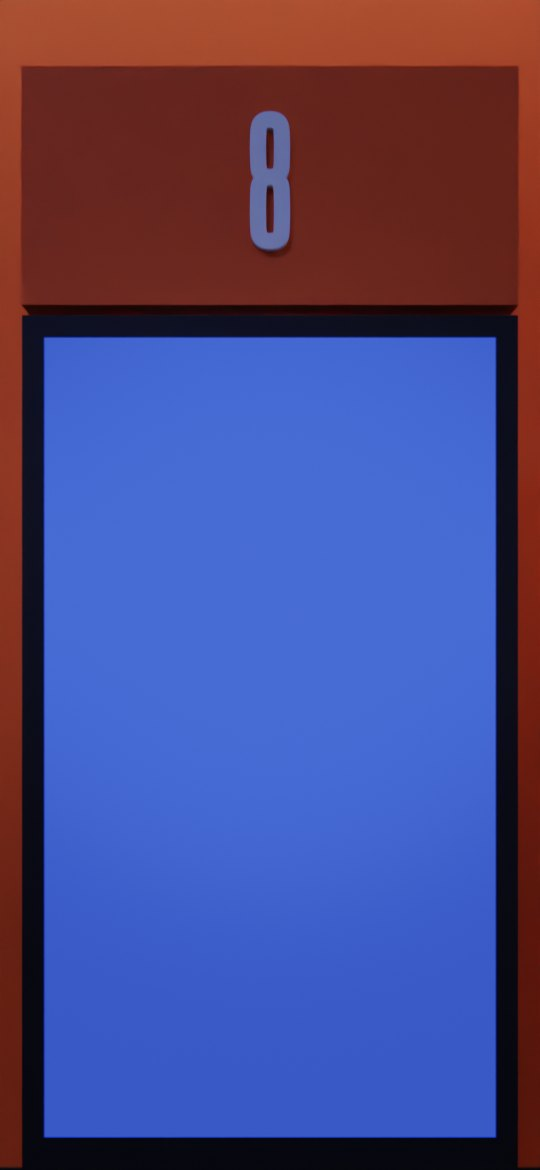
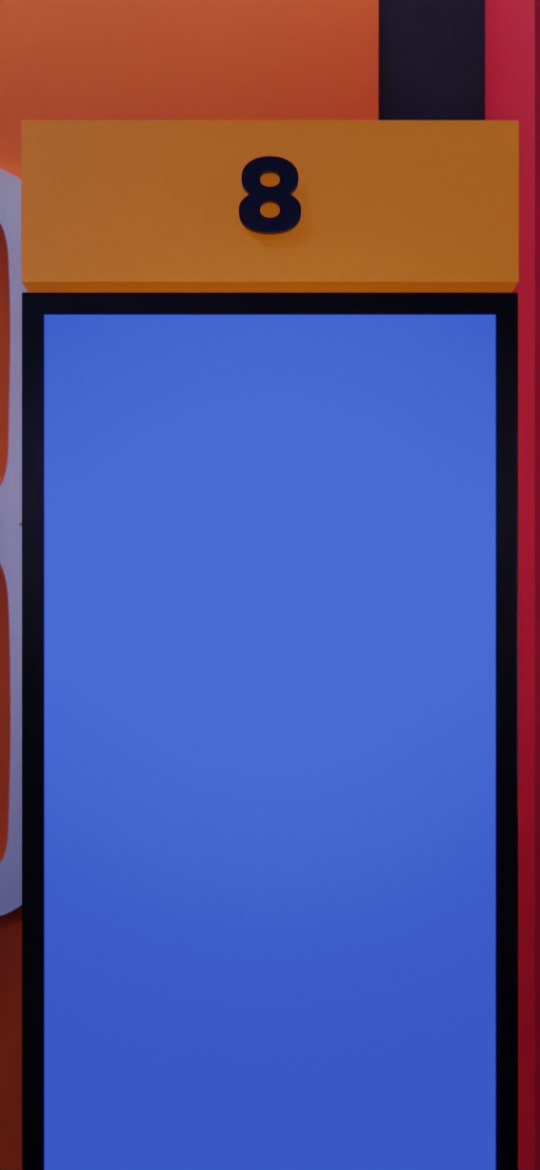
Cinema: review round 10 fixes
Door totem beside the portal with a backlit orange number plate (the HTML room
heading goes); taller totem screens; square-on phone hall shot; brighter cinema
screen, dimmer house lights; satin bezels. Page: 'Worth it if' under the speakers,
search shows the matching tool plus a count with an orange underline, a lone talk
takes the whole row with its summary, the text-only link in the bottom corner.

Changed region(s): [[0.0, 0.0, 1.0, 1.0], [0.0, 0.9846, 0.0296, 1.0]]

diff --git a/site/cinema/cinema.js b/site/cinema/cinema.js
@@ -229,8 +229,8 @@ function why(t, terms) {
     const a = i;                                                     // start at the match, so it's always in view
     if (name === "Tools" || name === "Topics" || name === "Speaker") {        // lists: the matching item first, then whole items
       const items = text.split(/,\s*/), hit = items.find((x) => x.toLowerCase().includes(w));
-      const rest = items.filter((x) => x !== hit).slice(0, 3);
-      return el("span", { class: "why" }, el("b", { text: `${name}: ` }), el("mark", { text: hit }), rest.length ? `, ${rest.join(", ")}` : "");
+      const more = items.length - 1;
+      return el("span", { class: "why" }, el("b", { text: `${name}: ` }), el("mark", { text: hit }), more > 0 && name !== "Speaker" ? ` +${more} more` : "");
     }
     const word = text.slice(i).match(/^\S+/)[0].replace(/[,.;:]$/, "");    // the whole matched word, e.g. "Kotlin"
     return el("span", { class: "why" }, el("b", { text: `${name}: ` }), a > 0 ? "…" : "", el("mark", { text: word }), text.slice(i + word.length, i + word.length + 70));
@@ -252,7 +252,7 @@ function card(t, { when: showWhen = null, terms = null } = {}) {
 }
 
 function programme(tall) {
-  const search = el("input", { class: "search", type: "search", placeholder: tall ? "Search talks, speakers, topics" : "Search talks, people", "aria-label": "Search all talks", value: query });
+  const search = el("input", { class: "search", type: "search", placeholder: tall ? "Search talks, speakers, topics" : "Search", "aria-label": "Search all talks", value: query });
   const dayRow = el("div", { class: "strip days", role: "group", "aria-label": "Day" });
   const timeRow = el("div", { class: "strip times", role: "group", "aria-label": "Start time" });
   const nav = el("div", { class: "nav" }, tall ? dayRow : null, timeRow);
@@ -260,7 +260,7 @@ function programme(tall) {
   const panel = el("section", { class: `face prog is-lcd${tall ? " is-tall" : ""}`, "aria-label": "Programme" },
     el("div", { class: "prog-head" },
       el("h1", { class: "brand", "aria-label": "Devoxx Belgium 2026, 5 to 9 October" }, el("span", {}, "DEVOX", el("span", { class: "x", text: "X" })),
-        tall ? el("small", { text: "Belgium 2026: every talk, summarised" }) : el("small", { text: "every talk, summarised" })),
+        el("small", { text: "Belgium 2026, summarised" })),
       tall ? null : dayRow,
       search),
     nav, body);
@@ -293,7 +293,7 @@ function programme(tall) {
     const cards = el("div", { class: `cards scroller${tall ? "" : fill.length ? " is-packed" : " is-exact"}`, tabindex: "-1" },
       here.map((t) => {
         const c = card(t, { when: fill.length ? "time" : null });
-        if (fill.length) c.classList.add(here.length === 1 ? "is-now-wide" : "is-now");
+        if (fill.length) c.classList.add(here.length === 1 ? "is-now-wide" : "is-now");   // a lone talk takes the whole row
         if (fill.length && here.length === 1 && t.s && t.s.tldr) c.append(el("span", { class: "gist", text: t.s.tldr }));
         return c;
       }),
@@ -327,7 +327,7 @@ function talkScreen(t, tall, onFloor, doorRoom = null) {
   };
   const fill = (id) => {
     pane.textContent = "";
-    if (id === "short") put(pane, el("p", { text: s.tldr }), s.watchIf ? el("p", { class: "note", text: `Worth it if ${s.watchIf.replace(/^\p{Lu}/u, (c) => c.toLowerCase()).replace(/\.$/, "")}.` }) : null);
+    if (id === "short") put(pane, el("p", { text: s.tldr }));
     if (id === "points") put(pane, el("ul", {}, s.keyPoints.map((p) => el("li", { text: p }))));
     if (id === "monday") put(pane, el("ol", {}, s.takeaways.map((p) => el("li", { text: p }))));
     if (id === "chapters") put(pane, el("div", {}, s.chapters.map(chapter)));
@@ -346,15 +346,15 @@ function talkScreen(t, tall, onFloor, doorRoom = null) {
   const intro = () => {
     main.textContent = "";
     put(main,
-      doorRoom && tall ? el("div", { class: "door-sign" }, el("small", { text: "Room" }), el("b", { text: String(doorRoom) }), el("span", { text: t.start ? `Recorded ${fShort.format(new Date(t.start))} Oct` : "" })) : null,
       el("div", { class: "meta", text: [doorRoom && tall ? null : (!onFloor && /^BOF/.test(t.room || "") ? `${t.room} (downstairs)` : t.room),
-        doorRoom && tall ? (t.start ? fTime.format(new Date(t.start)) : null) : whenShort(t), typeLabel(t)].filter(Boolean).join(", ") }),
+        whenShort(t), typeLabel(t)].filter(Boolean).join(", ") }),
       el("h2", { text: t.title, style: `--title:${onFloor ? titleSize(t.title, 40, 30) : titleSize(t.title, 34, 26)}px;--title-s:${titleSize(t.title, 23, 19)}px` }),
       el("div", { class: "who-l", text: speakers(t, true) }),
+      s.watchIf ? el("p", { class: "verdict", text: `Worth it if ${s.watchIf.replace(/^\p{Lu}/u, (c) => c.toLowerCase()).replace(/\.$/, "")}.` }) : null,
       !tall && s.tldr ? el("p", { class: "tldr", text: s.tldr }) : null,
       el("div", { class: "actions" }, watch(), el("button", { class: "btn", type: "button", text: "Back to the programme", onclick: () => goHall() }),
         t.videoId ? null : el("span", { class: "note", text: "No recording yet." })),
-      !tall && s.watchIf ? el("p", { class: "verdict", text: `Worth it if ${s.watchIf.replace(/^\p{Lu}/u, (c) => c.toLowerCase()).replace(/\.$/, "")}.` }) : null);
+      null);
   };
   playAt = (sec) => {
     main.textContent = "";

diff --git a/site/cinema/cinema.css b/site/cinema/cinema.css
@@ -43,7 +43,7 @@ button, input, a { font: inherit; color: inherit; }
   opacity: .5; mix-blend-mode: soft-light; }
 
 /* chrome outside the screens: small, quiet, fixed */
-.exit { position: fixed; z-index: 5; left: 12px; top: calc(10px + env(safe-area-inset-top, 0px)); background: rgba(5, 7, 20, .7); color: #D5DBF7;
+.exit { position: fixed; z-index: 5; left: 12px; bottom: calc(10px + env(safe-area-inset-bottom, 0px)); background: rgba(5, 7, 20, .7); color: #D5DBF7;
   border: 1px solid rgba(174, 184, 236, .28); border-radius: 999px; padding: 6px 12px; font-size: 14px; text-decoration: none; backdrop-filter: blur(6px); }
 .exit:hover { color: var(--ink); border-color: var(--muted); }
 .exit:focus-visible { outline: 3px solid #fff; outline-offset: 2px; }
@@ -103,7 +103,7 @@ button, input, a { font: inherit; color: inherit; }
 .cards.is-packed > .card { height: 156px; gap: 6px; }
 .cards.is-packed .card .title { -webkit-line-clamp: 2; }
 .cards.is-packed > .card.is-now, .cards.is-packed > .card.is-now-wide { height: 176px; }
-.cards.is-packed > .card.is-now-wide { grid-column: span 2; }
+.cards.is-packed > .card.is-now-wide { grid-column: 1 / -1; height: auto; min-height: 150px; }
 .cards.is-packed .card.is-now .title, .cards.is-packed .card.is-now-wide .title { -webkit-line-clamp: 3; }
 .card .why { font-size: 17px; line-height: 1.35; color: var(--muted); white-space: nowrap; overflow: hidden; text-overflow: ellipsis; flex: none; }
 .card .why b { font-weight: 700; }
@@ -111,8 +111,8 @@ button, input, a { font: inherit; color: inherit; }
 .prog.is-tall .cards.scroller[aria-label="Search results"] > .card { height: auto; min-height: 0; }
 .card .gist { font-size: 17px; line-height: 1.35; opacity: .85; display: -webkit-box; -webkit-line-clamp: 2; -webkit-box-orient: vertical; overflow: hidden; }
 .card:not(.is-off) .why { color: var(--deep); opacity: .8; }
-.card .why mark { background: rgba(246, 146, 30, .35); color: inherit; border-radius: 3px; padding: 0 2px; }
-.card:not(.is-off) .why mark { background: rgba(10, 15, 46, .18); }
+.card .why mark { background: none; color: var(--orange); font-weight: 700; box-shadow: inset 0 -2px 0 var(--orange); padding: 0 1px; }
+.card:not(.is-off) .why mark { color: var(--deep); box-shadow: inset 0 -2px 0 var(--deep); }
 .prog.is-tall .cards > .card { height: auto; }
 .card { display: flex; flex-direction: column; gap: 8px; text-align: left; border: 0; border-radius: 12px; padding: 14px 16px 15px;
   background: var(--orange); color: var(--deep); min-width: 0; box-shadow: 0 2px 0 rgba(0, 0, 0, .3); transition: transform .12s ease, filter .12s ease; }
@@ -153,6 +153,7 @@ button, input, a { font: inherit; color: inherit; }
 .prog.is-tall .card .room { font-size: 13px; }
 .prog.is-tall .card .where small { font-size: 12px; }
 .prog.is-tall .card .why { font-size: 13px; }
+.prog.is-tall .card .gist { display: none; }
 .prog.is-tall .card .room b { font-size: 22px; }
 .prog.is-tall .card .title { font-size: 16px; -webkit-line-clamp: 2; padding-bottom: 1px; }
 .prog.is-tall .card .who { font-size: 13px; -webkit-line-clamp: 1; margin-top: 2px; }
@@ -167,7 +168,8 @@ button, input, a { font: inherit; color: inherit; }
 .meta { font-size: 20px; font-weight: 600; color: var(--orange); }
 .talk h2 { margin-top: 12px; font-weight: 800; font-stretch: 110%; font-size: var(--title, 46px); line-height: 1.05; letter-spacing: -.01em; text-wrap: balance; }
 .who-l { margin-top: 10px; font-size: 19px; color: var(--muted); }
-.verdict { margin-top: 14px; font-size: 19px; line-height: 1.4; color: var(--muted); max-width: 38em; }
+.verdict { margin-top: 10px; font-size: 19px; line-height: 1.4; color: var(--ink); max-width: 38em; }
+.talk.is-tall .verdict { font-size: 14px; margin-top: 4px; }
 .tldr { margin-top: 18px; font-size: 20px; line-height: 1.45; max-width: 36em; display: -webkit-box; -webkit-line-clamp: 4; -webkit-box-orient: vertical; overflow: hidden; }
 .actions { display: flex; gap: 12px; flex-wrap: wrap; align-items: center; margin-top: 18px; }
 .btn { display: inline-flex; align-items: center; border-radius: 10px; padding: 11px 18px; font-size: 18px; font-weight: 700; text-decoration: none;

diff --git a/scripts/blender/build_scene.py b/scripts/blender/build_scene.py
@@ -347,13 +347,15 @@ M = {
     "extinguisher": material("extinguisher", 0xb3121a, 0.3),
     "exitSign": emissive("exitSign", 0x18c060, 4.0),
     "downlight": emissive("downlight", 0xfff1e0, 25.0),
-    "bezel": material("bezel", 0x070708, 0.6),
+    "bezel": material("bezel", 0x0b0b0e, 0.28, 0.4, bevel=0.006),     # satin black, catching a highlight on its edge
+    "plate": material("plate", 0xf6921e, 0.5, emission=0xd9741a, strength=0.6),   # backlit room-number plate
+    "plateText": material("plateText", 0x0a0f2e, 0.4),
     "foliage": material("foliage", 0x4a7a3a, 0.55, sheen=0.3),
     "tableFrame": material("tableFrame", 0x111114, 0.4, 0.6),
     "audFloor": material("audFloor", 0x111218, 1.0, noise_bump=0.2),
     "ceiling": material("ceiling", 0x121318, 1.0),
     "vault": material("vault", 0xe6e6e8, 0.85),
-    "starDot": emissive("starDot", 0xfff4e8, 60.0),
+    "starDot": emissive("starDot", 0xfff4e8, 30.0),
     "wordX": material("wordX", 0xff9a2a, 0.5, emission=0xff8a1e, strength=0.4),
     "trussLamp": emissive("trussLamp", 0xf2f4ff, 400.0),
     "aisleLed": emissive("aisleLed", 0xff2030, 30.0),
@@ -379,7 +381,7 @@ M = {
     "cove": emissive("cove", 0x8c9cff, 6.0),
     "panelLight": emissive("panelLight", 0xfff3e6, 8.0),       # the look of the panels; area lights below do the lighting      # about 4000 K, like the photos
     # the HTML is pinned over these in the browser: they glow the panels' navy, so their light on the room matches
-    "screen": emissive("screen", 0x1c2658, 9.0),      # bright enough to light the letters and the front rows
+    "screen": emissive("screen", 0x22306a, 16.0),     # bright enough to light the letters and the front rows
     "masking": material("masking", 0x050507, 1.0, noise_bump=0.6),
     "programme": emissive("programme", 0x1d2c7a, 6.0),
     "schedule": emissive("schedule", 0x1c2a6b, 1.5),
@@ -638,6 +640,7 @@ for fx in (grand["x"] + grand["w"] * 0.17, grand["x"] + grand["w"] * 0.5, grand[
 
 # ---------------------------------------------------------------------------------- rooms: doors, screens
 FONT = bpy.data.fonts.load(str(ROOT / "scripts" / "blender" / "fonts" / "BigShouldersDisplay.ttf"))
+WORD_FONT_EARLY = bpy.data.fonts.load(str(ROOT / "scripts" / "blender" / "fonts" / "ArchivoBlack.ttf"))
 
 
 def text_object(body, size, loc, rot, mat, extrude=0.01, offset=0.02):
@@ -705,9 +708,9 @@ for r in auditoriums:
     text_object(str(n), 2.6, (wall_x + face * 0.2, panel_y, FH + 1.85), (math.pi / 2, 0, math.pi / 2 if west else -math.pi / 2), M["white"], 0.02, 0.03)
     # the schedule totem in front of the room-number panel, facing the corridor (on phones, the talk is shown on it,
     # with the big numeral rising behind it)
-    sy = panel_y
+    sy = yc + side_y * 2.05          # just past the portal's jamb: the doorway on one side, the number panel on the other
     sx = wall_x + face * 1.1
-    tw, th, tz = 0.70, 1.24, FH + 1.42
+    tw, th, tz = 0.70, 1.42, FH + 1.45
     B.box("bezel", {"x": sx - 0.035, "y": sy - tw / 2 - 0.035, "w": 0.07, "h": tw + 0.07}, tz - th / 2 - 0.09, tz + th / 2 + 0.035)
     B.box("tableFrame", {"x": sx - face * 0.07 - 0.03, "y": sy - 0.06, "w": 0.06, "h": 0.12}, FH + 0.04, tz - th / 2)
     B.box("tableFrame", {"x": sx - 0.21, "y": sy - 0.3, "w": 0.42, "h": 0.6}, FH, FH + 0.04)
@@ -716,8 +719,9 @@ for r in auditoriums:
                   (fx, sy - side_y * tw / 2, tz + th / 2), (fx, sy + side_y * tw / 2, tz + th / 2)]
     B.mesh("programme", door_totem, [(0, 1, 2, 3)] if face * side_y < 0 else [(0, 3, 2, 1)])
     # an orange header plate with the room's number on top of the totem, as on Kinepolis signage
-    B.box("numeral", {"x": sx - 0.04, "y": sy - tw / 2 - 0.035, "w": 0.08, "h": tw + 0.07}, tz + th / 2 + 0.05, tz + th / 2 + 0.42)
-    text_object(str(n), 0.3, (sx + face * 0.045, sy, tz + th / 2 + 0.235), (math.pi / 2, 0, math.pi / 2 if west else -math.pi / 2), M["white"], 0.008, 0.01)
+    B.box("plate", {"x": sx - 0.04, "y": sy - tw / 2 - 0.035, "w": 0.08, "h": tw + 0.07}, tz + th / 2 + 0.05, tz + th / 2 + 0.3)
+    plate_txt = text_object(str(n), 0.2, (sx + face * 0.06, sy, tz + th / 2 + 0.175), (math.pi / 2, 0, math.pi / 2 if west else -math.pi / 2), M["plateText"], 0.006, 0.0)
+    plate_txt.data.font = WORD_FONT_EARLY
     doors[n] = {"room": r, "wall_x": wall_x, "yc": yc, "face": face, "leaves": leaves, "west": west,
                 "totem": {"x": sx, "y": sy, "z": tz, "w": tw, "h": th, "corners": door_totem}}
 
@@ -1128,7 +1132,7 @@ B.mesh("programme", screen_corners, [(0, 1, 2, 3)])
 
 
 # the phone's programme: a portrait schedule totem standing in front of the curtains, right of the big screen
-TOTEM = {"x": SX + 3.9, "y": NORTH - 2.6, "z": 1.42, "w": 0.70, "h": 1.24}
+TOTEM = {"x": SX + 3.9, "y": NORTH - 2.6, "z": 1.5, "w": 0.70, "h": 1.42}
 tb = 0.035
 B.box("bezel", {"x": TOTEM["x"] - TOTEM["w"] / 2 - tb, "y": TOTEM["y"] - 0.03, "w": TOTEM["w"] + 2 * tb, "h": 0.07},
       TOTEM["z"] - TOTEM["h"] / 2 - 0.09, TOTEM["z"] + TOTEM["h"] / 2 + tb)
@@ -1520,7 +1524,7 @@ pos, look, fov = hall_pose()
 hall_cam = still_cam("cam-hall", pos, look, fov)
 tdist = 1.7                           # the totem fills 90% of a phone's width; a little stand, floor and room round it
 _hfov = 2 * math.atan(TOTEM["w"] / 2 / 0.9 / tdist)
-phone_hall_cam = still_cam("cam-hall-phone", (TOTEM["x"], TOTEM["y"] - tdist, TOTEM["z"] + 0.04), (TOTEM["x"], TOTEM["y"], TOTEM["z"] - 0.02),
+phone_hall_cam = still_cam("cam-hall-phone", (TOTEM["x"], TOTEM["y"] - tdist, TOTEM["z"]), (TOTEM["x"], TOTEM["y"], TOTEM["z"]),
                            2 * math.degrees(math.atan(math.tan(_hfov / 2) * PHONE[1] / PHONE[0])), dof=(tdist, 1.8))
 bpy.context.view_layer.update()       # matrix_world is stale until the depsgraph runs
 set_res(LAPTOP)
@@ -1563,7 +1567,7 @@ ddist = 2.0                                   # square on (text pinned flat neve
 _dh = 2 * math.atan(tot["w"] / 2 / 0.82 / ddist)
 door_cam = still_cam(f"cam-door-phone-{n}", (tot["x"] + dface * ddist, tot["y"], tot["z"] + 0.2), (tot["x"], tot["y"], tot["z"] + 0.2),
                      2 * math.degrees(math.atan(math.tan(_dh / 2) * PHONE[1] / PHONE[0])), dof=(ddist, 2.8))
-door_cam.data.shift_y = 0.02                  # the numeral plate on top in view, less floor
+door_cam.data.shift_y = 0.05                  # the numeral plate on top in view, less floor
 bpy.context.view_layer.update()
 set_res(PHONE)
 shots[f"door-phone-{n}"] = {"kind": "still", "overlay": {"screen": screen_quad(grow(tot["corners"]), door_cam)}, "size": {"screen": [tot["w"], tot["h"]]}}
